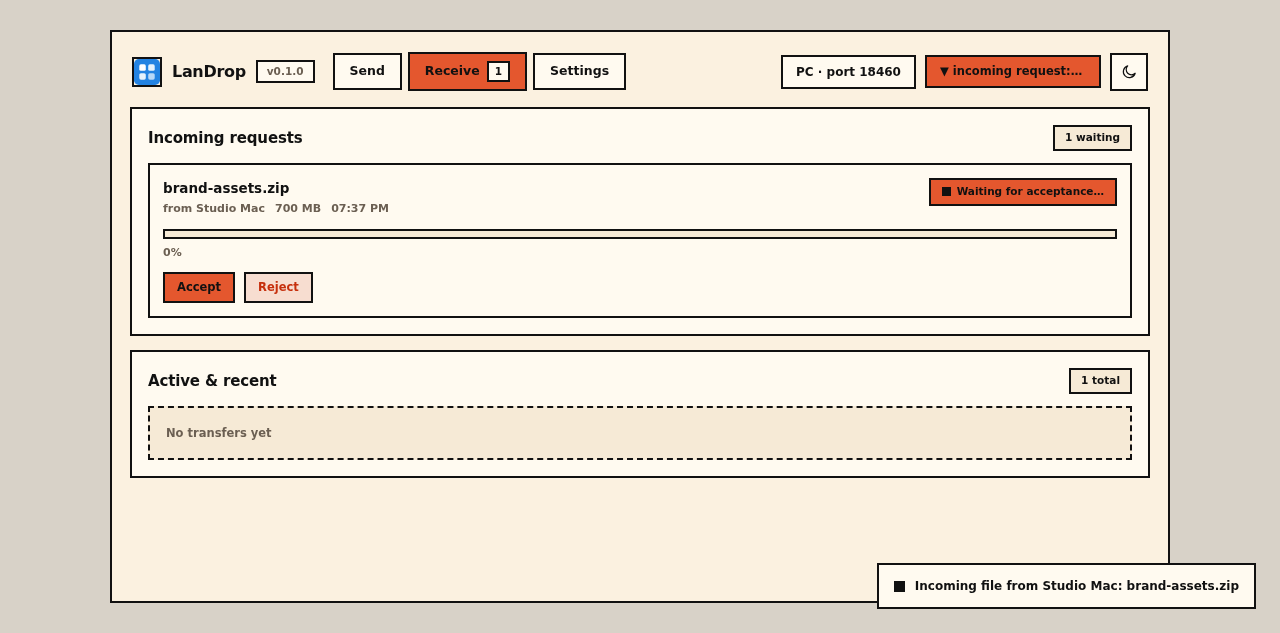
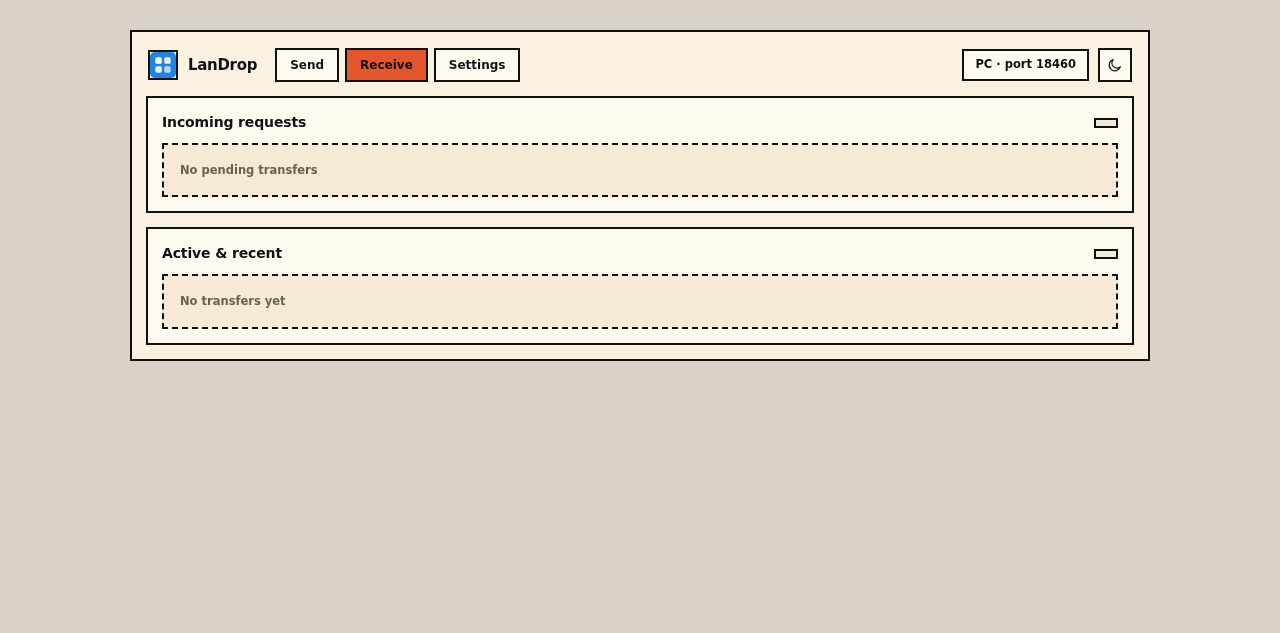
UI: compact pass, softer dark mode, version chip removed, smaller window
- Removed the version chip from the top bar (it is already in Settings >
  This device > Version; no duplication in the chrome anymore).
- Compacted the whole layout: shell content-hugging instead of stretching to
  the viewport, tighter paddings and gaps, smaller tabs/chips/inputs/buttons/
  peers/dropzone, narrower max width.
- Dark mode reworked: surfaces are warm dark brown with muted grey-brown
  outlines instead of bright cream borders everywhere, so it reads calmly and
  stays legible; the red accent still marks active/primary items.
- Desktop window default is now 960×660 (min 720×520) so it opens at a
  sensible size instead of a big mostly-empty frame.
- Screenshots refreshed; desktop bundles and the signed arm64 phone APK rebuilt.

diff --git a/ui/styles.css b/ui/styles.css
@@ -41,21 +41,22 @@
 }
 
 html[data-theme="dark"] {
-  --page: #171310;
-  --surface: #241d17;
-  --card: #2b231c;
-  --card-2: #332a21;
-  --ink: #f7ecdc;
-  --ink-2: #c3b3a0;
-  --ink-3: #97897a;
-  --line: #f7ecdc;
+  --page: #14120f;
+  --surface: #201c18;
+  --card: #272220;
+  --card-2: #302a25;
+  --ink: #f3ead9;
+  --ink-2: #b9ab99;
+  --ink-3: #8d8071;
+  /* Softer outlines in the dark: structure without the glare. */
+  --line: #574c40;
   --accent: #ff6a3d;
   --accent-ink: #1b120c;
-  --accent-soft: rgba(255, 106, 61, 0.18);
-  --ok: #f7ecdc;
-  --ok-soft: rgba(247, 236, 220, 0.08);
-  --err: #ff8a6a;
-  --danger-soft: rgba(255, 138, 106, 0.16);
+  --accent-soft: rgba(255, 106, 61, 0.16);
+  --ok: #f3ead9;
+  --ok-soft: rgba(243, 234, 217, 0.06);
+  --err: #ff8f70;
+  --danger-soft: rgba(255, 143, 112, 0.14);
 }
 
 * { box-sizing: border-box; }
@@ -86,11 +87,10 @@ body {
 .shell {
   display: flex;
   flex-direction: column;
-  gap: 14px;
-  max-width: 1060px;
-  min-height: calc(100vh - 60px);
+  gap: 12px;
+  max-width: 1020px;
   margin: 0 auto;
-  padding: 18px;
+  padding: 14px;
   border-radius: var(--r-shell);
   border: var(--outline) solid var(--line);
   background: var(--surface);
@@ -122,7 +122,7 @@ body {
 }
 
 .brand-name {
-  font-size: 16px;
+  font-size: 15px;
   font-weight: 800;
   letter-spacing: -0.02em;
 }
@@ -147,15 +147,15 @@ body {
 .tab {
   display: inline-flex;
   align-items: center;
-  gap: 7px;
-  padding: 7px 15px;
-  min-height: 34px;
+  gap: 6px;
+  padding: 6px 13px;
+  min-height: 30px;
   border: var(--outline) solid var(--line);
   border-radius: var(--r-pill);
   background: var(--card);
   color: var(--ink);
   font: inherit;
-  font-size: 12.5px;
+  font-size: 12px;
   font-weight: 700;
   cursor: pointer;
   box-shadow: var(--shadow-sm);
@@ -196,12 +196,12 @@ body {
 }
 
 .me {
-  padding: 6px 13px;
+  padding: 5px 11px;
   border-radius: var(--r-pill);
   border: var(--outline) solid var(--line);
   background: var(--card);
   color: var(--ink);
-  font-size: 12px;
+  font-size: 11.5px;
   font-weight: 700;
   white-space: nowrap;
   overflow: hidden;
@@ -234,8 +234,8 @@ body {
 .theme-toggle {
   display: grid;
   place-items: center;
-  width: 38px;
-  height: 38px;
+  width: 34px;
+  height: 34px;
   padding: 0;
   border-radius: var(--r-pill);
   border: var(--outline) solid var(--line);
@@ -246,7 +246,7 @@ body {
   transition: transform 120ms ease, background 120ms ease;
 }
 
-.theme-toggle svg { width: 17px; height: 17px; }
+.theme-toggle svg { width: 16px; height: 16px; }
 
 /* Sun/moon swap inside the theme button. */
 .icon-sun { display: none; }
@@ -292,8 +292,8 @@ main { min-width: 0; }
 .card {
   display: flex;
   flex-direction: column;
-  gap: 12px;
-  padding: 16px;
+  gap: 10px;
+  padding: 14px;
   border-radius: var(--r-card);
   border: var(--outline) solid var(--line);
   background: var(--card);
@@ -311,7 +311,7 @@ main { min-width: 0; }
 
 .card-head h2 {
   margin: 0;
-  font-size: 15px;
+  font-size: 14px;
   font-weight: 800;
   letter-spacing: -0.01em;
 }
@@ -341,8 +341,8 @@ main { min-width: 0; }
   align-items: center;
   justify-content: center;
   gap: 8px;
-  min-height: 170px;
-  padding: 22px 20px;
+  min-height: 140px;
+  padding: 18px 16px;
   border-radius: var(--r-card);
   border: 2.5px dashed var(--line);
   background: var(--card-2);
@@ -364,15 +364,15 @@ main { min-width: 0; }
 .dz-icon {
   display: grid;
   place-items: center;
-  width: 46px;
-  height: 46px;
+  width: 42px;
+  height: 42px;
   border: var(--outline) solid var(--line);
   background: var(--accent);
   color: var(--accent-ink);
   box-shadow: var(--shadow-sm);
 }
 
-.dz-icon svg { width: 21px; height: 21px; }
+.dz-icon svg { width: 19px; height: 19px; }
 
 .dz-title {
   margin: 8px 0 0;
@@ -421,17 +421,17 @@ main { min-width: 0; }
 .peer-list {
   display: flex;
   flex-direction: column;
-  gap: 9px;
-  max-height: 270px;
+  gap: 8px;
+  max-height: 240px;
   overflow: auto;
 }
 
 .peer {
   display: grid;
-  grid-template-columns: 40px 1fr auto;
+  grid-template-columns: 36px 1fr auto;
   align-items: center;
-  gap: 11px;
-  padding: 10px 11px;
+  gap: 10px;
+  padding: 8px 10px;
   border-radius: var(--r-chip);
   border: var(--outline) solid var(--line);
   background: var(--card);
@@ -457,13 +457,13 @@ main { min-width: 0; }
 .peer-avatar {
   display: grid;
   place-items: center;
-  width: 40px;
-  height: 40px;
+  width: 36px;
+  height: 36px;
   border-radius: var(--r-pill);
   border: var(--outline) solid var(--line);
   background: var(--accent);
   color: var(--accent-ink);
-  font-size: 15px;
+  font-size: 14px;
   font-weight: 800;
   text-transform: uppercase;
 }
@@ -541,8 +541,8 @@ main { min-width: 0; }
   align-items: center;
   justify-content: center;
   gap: 8px;
-  padding: 9px 18px;
-  min-height: 38px;
+  padding: 8px 15px;
+  min-height: 34px;
   border-radius: var(--r-pill);
   border: var(--outline) solid var(--line);
   background: var(--card);
@@ -581,8 +581,8 @@ main { min-width: 0; }
 }
 
 .btn.sm {
-  padding: 5px 12px;
-  min-height: 30px;
+  padding: 4px 10px;
+  min-height: 28px;
   font-size: 11.5px;
 }
 
@@ -590,15 +590,15 @@ main { min-width: 0; }
 input[type="text"],
 input[type="number"] {
   width: 100%;
-  padding: 7px 2px;
-  min-height: 34px;
+  padding: 6px 2px;
+  min-height: 30px;
   border: 0;
   border-bottom: var(--outline) solid var(--line);
   border-radius: 0;
   background: transparent;
   color: var(--ink);
   font: inherit;
-  font-size: 13px;
+  font-size: 12.5px;
   font-weight: 700;
   transition: border-color 120ms ease, background 120ms ease;
 }
@@ -656,7 +656,7 @@ input[type="checkbox"]:checked::before {
 .transfer-list:empty { display: none; }
 
 .transfer {
-  padding: 13px;
+  padding: 12px;
   border-radius: var(--r-chip);
   border: var(--outline) solid var(--line);
   background: var(--card);
@@ -732,8 +732,8 @@ input[type="checkbox"]:checked::before {
 .status-cancelled .t-status { color: var(--ink-2); }
 
 .progress {
-  height: 10px;
-  margin-top: 11px;
+  height: 9px;
+  margin-top: 9px;
   border-radius: var(--r-pill);
   border: var(--outline) solid var(--line);
   background: var(--card-2);
@@ -828,7 +828,7 @@ input[type="checkbox"]:checked::before {
 }
 
 .info-grid > div {
-  padding: 11px 12px;
+  padding: 9px 11px;
   border-radius: var(--r-chip);
   border: var(--outline) solid var(--line);
   background: var(--card-2);
@@ -1005,8 +1005,8 @@ input[type="checkbox"]:checked::before {
 
 .toasts {
   position: fixed;
-  right: 24px;
-  bottom: 24px;
+  right: 18px;
+  bottom: 18px;
   z-index: 100;
   display: flex;
   flex-direction: column;

diff --git a/ui/app.js b/ui/app.js
@@ -119,7 +119,6 @@ setTheme(localStorage.getItem(THEME_KEY) === "dark" ? "dark" : "light");
 async function loadInfo() {
   try {
     state.info = await api("/api/info");
-    $("version").textContent = "v" + state.info.version;
     $("me").textContent = `${state.info.name} · port ${state.info.port}`;
     $("infoId").textContent = state.info.id;
     $("infoName").textContent = state.info.name;

diff --git a/ui/index.html b/ui/index.html
@@ -14,7 +14,6 @@
       <div class="brand">
         <img class="logo-img" src="/logo.svg" alt="" width="30" height="30" />
         <span class="brand-name">LanDrop</span>
-        <span class="version" id="version">…</span>
       </div>
 
       <nav class="tabs" role="tablist" aria-label="Sections">

diff --git a/desktop/src/lib.rs b/desktop/src/lib.rs
@@ -322,8 +322,8 @@ pub fn run() {
                 .title("LanDrop");
             #[cfg(desktop)]
             let builder = builder
-                .inner_size(1100.0, 760.0)
-                .min_inner_size(900.0, 600.0)
+                .inner_size(960.0, 660.0)
+                .min_inner_size(720.0, 520.0)
                 .center()
                 .visible(!wants_hidden());
             builder.build()?;
